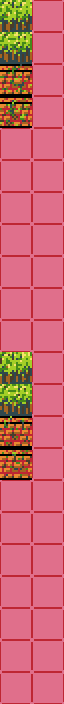
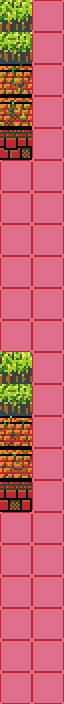
some new wall textures and faster rendering

Changed region(s): [[0.0, 0.6562, 0.5, 0.75], [0.0, 0.1562, 0.5, 0.25]]

diff --git a/web/app/engine/maps.js b/web/app/engine/maps.js
@@ -97,34 +97,34 @@ var maps = {
         this.levels.push({
             walls: [
             [1, 1, 1, 1, 1, 1, 1, 1, 1, 1, 1, 1, 1, 1, 1, 1, 1, 1, 1, 1, 1, 1, 1, 1, 1, 1, 1, 1, 1, 1, 1, 1],
-            [1, 0, 0, 0, 0, 0, 0, 0, 0, 0, 0, 0, 0, 0, 0, 0, 0, 0, 0, 0, 0, 0, 0, 0, 0, 0, 0, 0, 0, 0, 0, 1],
-            [1, 0, 0, 0, 0, 0, 0, 0, 0, 0, 0, 0, 0, 0, 0, 0, 0, 0, 0, 0, 0, 0, 0, 0, 0, 0, 0, 0, 0, 0, 0, 1],
-            [1, 0, 0, 0, 0, 0, 0, 0, 0, 0, 0, 0, 0, 0, 0, 0, 0, 0, 0, 0, 0, 0, 0, 0, 0, 0, 0, 0, 0, 0, 0, 1],
-            [1, 0, 0, 0, 0, 0, 0, 0, 0, 0, 0, 0, 0, 0, 0, 0, 0, 0, 0, 0, 0, 0, 0, 0, 0, 0, 0, 0, 0, 0, 0, 1],
-            [1, 0, 0, 0, 0, 0, 0, 0, 0, 0, 0, 0, 0, 0, 0, 0, 0, 0, 0, 0, 0, 0, 0, 0, 0, 0, 0, 0, 0, 0, 0, 1],
-            [1, 0, 0, 0, 0, 0, 0, 0, 0, 0, 0, 0, 0, 0, 0, 0, 0, 0, 0, 0, 0, 0, 0, 0, 0, 0, 0, 0, 0, 0, 0, 1],
-            [1, 0, 0, 0, 0, 0, 0, 0, 0, 0, 0, 0, 0, 0, 0, 0, 0, 0, 0, 0, 0, 0, 0, 0, 0, 0, 0, 0, 0, 0, 0, 1],
-            [1, 0, 0, 0, 0, 0, 0, 0, 0, 0, 0, 0, 0, 0, 0, 0, 0, 0, 0, 0, 0, 0, 0, 0, 0, 0, 0, 0, 0, 0, 0, 1],
-            [1, 0, 0, 0, 0, 0, 0, 0, 0, 0, 0, 0, 0, 0, 0, 0, 0, 0, 0, 0, 0, 0, 0, 0, 0, 0, 0, 0, 0, 0, 0, 1],
-            [1, 0, 0, 0, 0, 0, 0, 0, 0, 0, 0, 0, 0, 0, 0, 0, 0, 0, 0, 0, 0, 0, 0, 0, 0, 0, 0, 0, 0, 0, 0, 1],
-            [1, 0, 0, 0, 0, 0, 0, 0, 0, 0, 0, 0, 0, 0, 0, 0, 1, 1, 1, 0, 0, 0, 0, 0, 0, 0, 0, 0, 0, 0, 0, 1],
-            [1, 0, 0, 0, 0, 0, 0, 0, 0, 0, 0, 0, 0, 0, 0, 0, 0, 0, 0, 0, 0, 0, 0, 0, 0, 0, 0, 0, 0, 0, 0, 1],
+            [1, 0, 0, 0, 0, 0, 0, 0, 0, 0, 0, 0, 0, 0, 0, 0, 0, 0, 0, 0, 0, 0, 1, 0, 0, 0, 0, 0, 0, 0, 0, 1],
+            [1, 0, 0, 0, 0, 0, 0, 0, 0, 0, 0, 0, 0, 0, 0, 0, 0, 0, 0, 0, 0, 0, 2, 0, 0, 0, 0, 0, 0, 0, 0, 1],
+            [1, 0, 0, 0, 0, 0, 0, 0, 0, 0, 0, 0, 0, 0, 0, 0, 0, 0, 0, 0, 0, 0, 0, 1, 1, 0, 0, 0, 0, 0, 0, 1],
+            [1, 0, 0, 0, 0, 0, 0, 0, 0, 0, 0, 0, 0, 0, 0, 0, 0, 0, 0, 0, 0, 0, 0, 0, 2, 0, 0, 0, 0, 0, 0, 1],
+            [1, 0, 0, 0, 0, 0, 0, 0, 0, 0, 0, 0, 0, 0, 0, 0, 0, 0, 0, 0, 0, 0, 0, 0, 2, 0, 0, 0, 0, 0, 0, 1],
+            [1, 0, 0, 0, 0, 0, 0, 0, 0, 0, 0, 0, 0, 0, 0, 0, 0, 0, 0, 0, 0, 0, 0, 0, 2, 1, 2, 2, 2, 0, 0, 1],
+            [1, 0, 0, 0, 0, 0, 0, 0, 0, 0, 0, 0, 0, 0, 0, 0, 0, 0, 0, 0, 0, 0, 0, 0, 0, 0, 0, 0, 1, 0, 0, 1],
+            [1, 0, 0, 0, 0, 0, 0, 0, 0, 0, 0, 0, 0, 0, 0, 0, 0, 0, 0, 0, 0, 0, 0, 0, 0, 0, 0, 0, 1, 0, 0, 1],
+            [1, 0, 0, 0, 0, 0, 0, 0, 0, 0, 0, 0, 0, 0, 0, 0, 0, 0, 0, 0, 0, 0, 0, 0, 0, 0, 0, 0, 1, 0, 0, 1],
+            [1, 0, 0, 0, 0, 0, 0, 0, 0, 0, 0, 0, 0, 0, 0, 0, 0, 0, 0, 0, 0, 0, 0, 0, 0, 0, 0, 2, 2, 0, 0, 1],
+            [1, 0, 0, 0, 0, 0, 0, 0, 0, 0, 0, 0, 0, 0, 0, 0, 1, 2, 1, 0, 0, 0, 0, 0, 0, 0, 0, 0, 1, 2, 2, 1],
+            [1, 0, 0, 0, 0, 0, 0, 0, 0, 0, 0, 0, 0, 0, 0, 0, 0, 2, 0, 0, 0, 0, 0, 0, 0, 0, 0, 0, 0, 0, 0, 1],
             [1, 0, 0, 0, 0, 0, 0, 0, 0, 0, 0, 0, 0, 0, 0, 0, 0, 0, 0, 0, 0, 0, 0, 0, 0, 0, 0, 0, 0, 0, 0, 1],
             [1, 0, 0, 0, 0, 0, 0, 0, 0, 0, 0, 0, 0, 0, 0, 1, 0, 0, 0, 0, 0, 0, 0, 0, 0, 0, 0, 0, 0, 0, 0, 1],
             [1, 0, 0, 0, 0, 0, 0, 0, 0, 0, 0, 0, 0, 0, 0, 0, 0, 0, 0, 0, 0, 0, 0, 0, 0, 0, 0, 0, 0, 0, 0, 1],
-            [1, 0, 0, 0, 0, 0, 0, 0, 0, 0, 0, 0, 0, 0, 0, 0, 0, 0, 0, 0, 0, 0, 1, 1, 1, 1, 0, 0, 0, 0, 0, 1],
+            [1, 0, 0, 0, 0, 0, 0, 0, 0, 0, 0, 0, 0, 0, 0, 0, 0, 0, 0, 0, 0, 0, 2, 1, 1, 1, 0, 0, 0, 0, 0, 1],
             [1, 0, 0, 0, 0, 0, 0, 0, 0, 0, 0, 0, 0, 0, 0, 0, 0, 0, 0, 0, 0, 1, 1, 0, 0, 1, 0, 0, 0, 0, 0, 1],
-            [1, 0, 0, 0, 0, 0, 0, 0, 0, 0, 0, 0, 0, 0, 0, 0, 0, 0, 0, 0, 0, 1, 0, 0, 0, 1, 1, 1, 0, 0, 0, 1],
+            [1, 0, 0, 0, 0, 0, 0, 0, 0, 0, 0, 0, 0, 0, 0, 0, 0, 0, 0, 0, 0, 2, 0, 0, 0, 1, 1, 1, 0, 0, 0, 1],
             [1, 0, 0, 0, 0, 0, 0, 0, 0, 0, 0, 0, 0, 0, 0, 0, 0, 0, 0, 0, 0, 1, 0, 0, 0, 0, 0, 1, 0, 0, 0, 1],
-            [1, 0, 0, 0, 0, 0, 0, 0, 0, 0, 0, 0, 0, 0, 0, 0, 0, 0, 0, 0, 0, 1, 1, 1, 1, 1, 1, 1, 0, 0, 0, 1],
+            [1, 0, 0, 0, 0, 0, 0, 0, 0, 0, 0, 0, 0, 0, 0, 0, 0, 0, 0, 0, 0, 2, 1, 1, 1, 1, 1, 1, 0, 0, 0, 1],
             [1, 0, 0, 0, 0, 0, 0, 0, 0, 0, 0, 0, 0, 0, 0, 0, 0, 0, 0, 0, 0, 0, 0, 0, 0, 1, 1, 0, 0, 0, 0, 1],
             [1, 0, 0, 0, 0, 0, 0, 0, 0, 0, 0, 0, 0, 0, 0, 0, 0, 0, 0, 0, 0, 0, 0, 0, 0, 1, 1, 0, 0, 0, 0, 1],
             [1, 0, 0, 0, 0, 0, 0, 0, 0, 0, 0, 0, 0, 0, 0, 0, 0, 0, 0, 0, 0, 0, 0, 0, 0, 0, 0, 0, 0, 0, 0, 1],
             [1, 0, 0, 0, 0, 0, 0, 0, 0, 0, 0, 0, 0, 0, 0, 0, 0, 0, 0, 0, 0, 0, 0, 0, 0, 0, 0, 0, 0, 0, 0, 1],
-            [1, 0, 0, 0, 0, 0, 0, 0, 0, 0, 0, 0, 0, 0, 0, 0, 0, 0, 0, 0, 0, 0, 0, 0, 0, 0, 0, 0, 0, 0, 0, 1],
-            [1, 0, 0, 0, 0, 0, 0, 0, 0, 0, 0, 0, 0, 0, 0, 0, 0, 0, 0, 0, 0, 0, 0, 0, 0, 0, 0, 0, 0, 0, 0, 1],
-            [1, 0, 0, 0, 0, 0, 0, 0, 0, 0, 0, 0, 0, 0, 0, 0, 0, 0, 0, 0, 0, 0, 0, 0, 0, 0, 0, 0, 0, 0, 0, 1],
-            [1, 0, 0, 0, 0, 0, 0, 0, 0, 0, 0, 0, 0, 0, 0, 0, 0, 0, 0, 0, 0, 0, 0, 0, 0, 0, 0, 0, 0, 0, 0, 1],
+            [1, 0, 0, 0, 0, 0, 0, 0, 0, 0, 0, 0, 0, 0, 0, 0, 0, 0, 0, 4, 4, 0, 0, 0, 0, 0, 0, 0, 0, 0, 0, 1],
+            [1, 0, 0, 0, 0, 0, 0, 0, 0, 0, 0, 0, 0, 0, 5, 5, 5, 0, 0, 3, 3, 0, 0, 0, 0, 0, 0, 0, 0, 0, 0, 1],
+            [1, 0, 0, 0, 0, 0, 0, 0, 0, 0, 0, 0, 0, 0, 0, 0, 0, 0, 0, 4, 3, 0, 0, 0, 0, 0, 0, 0, 0, 0, 0, 1],
+            [1, 0, 0, 0, 0, 0, 0, 0, 0, 0, 0, 0, 0, 0, 0, 0, 0, 0, 0, 3, 3, 0, 0, 0, 0, 0, 0, 0, 0, 0, 0, 1],
             [1, 0, 0, 0, 0, 0, 0, 0, 0, 0, 0, 0, 0, 0, 0, 0, 0, 0, 0, 0, 0, 0, 0, 0, 0, 0, 0, 0, 0, 0, 0, 1],
             [1, 0, 0, 0, 0, 0, 0, 0, 0, 0, 0, 0, 0, 0, 0, 0, 0, 0, 0, 0, 0, 0, 0, 0, 0, 0, 0, 0, 0, 0, 0, 1],
             [1, 0, 0, 0, 0, 0, 0, 0, 0, 0, 0, 0, 0, 0, 0, 0, 0, 0, 0, 0, 0, 0, 0, 0, 0, 0, 0, 0, 0, 0, 0, 1],

diff --git a/web/app/engine/render.js b/web/app/engine/render.js
@@ -3,7 +3,7 @@ var render = {
 	screenStrips: [],
 	screenWidth: 1024,
 	screenHeight: 600,
-	stripWidth: 2,
+	stripWidth: 4,
 	fov: 110 * Math.PI / 180,
 	numRays: null,
 	fovHalf: null,
